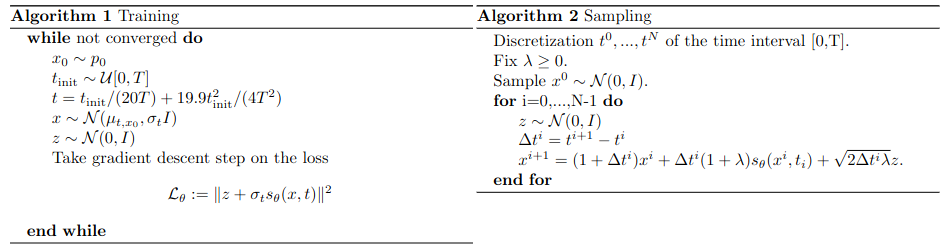
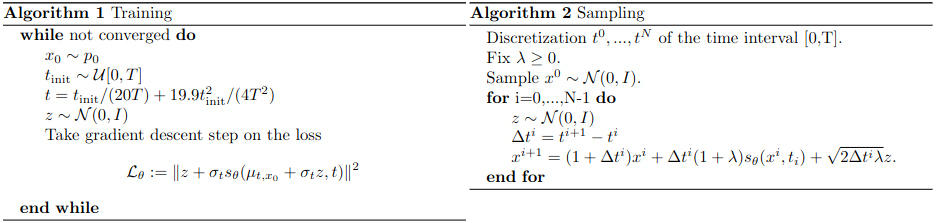
Fix typo in diffusion post

diff --git a/_posts/2024-03-25-diffusion-models-from-an-equilibrium-perspective.md b/_posts/2024-03-25-diffusion-models-from-an-equilibrium-perspective.md
@@ -198,7 +198,7 @@ $$\lambda(t) = \sigma_{t}^2, \tag{14}$$
 which is a natural choice given it allows to remove the singularity in the loss (13)<!--ref-->. By using the form of $p(\cdot \vert x_{0})$ given in (11)<!--ref--> and doing the change of variable $z=(x-\mu_{t, x_{0}})/\sigma_{t}$ in (13)<!--ref--> one finally gets
 
 $$
-\mathcal{L} := \min_{\theta} \mathbb{E}_{x_{0} \sim p_{0}, \ t, \ z \sim \mathcal{N}(0,I)} \Big(\int \|z + \sigma_{t} s_{\theta}(x,t) \|^{2}dx \Big),
+\mathcal{L} := \min_{\theta} \mathbb{E}_{x_{0} \sim p_{0}, \ t, \ z \sim \mathcal{N}(0,I)} \Big(\int \|z + \sigma_{t} s_{\theta}(\mu_{t, x_{0}} + \sigma_{t} z, t) \|^{2}dx \Big),
 $$
 
 which is the loss used during the training of diffusion models.
